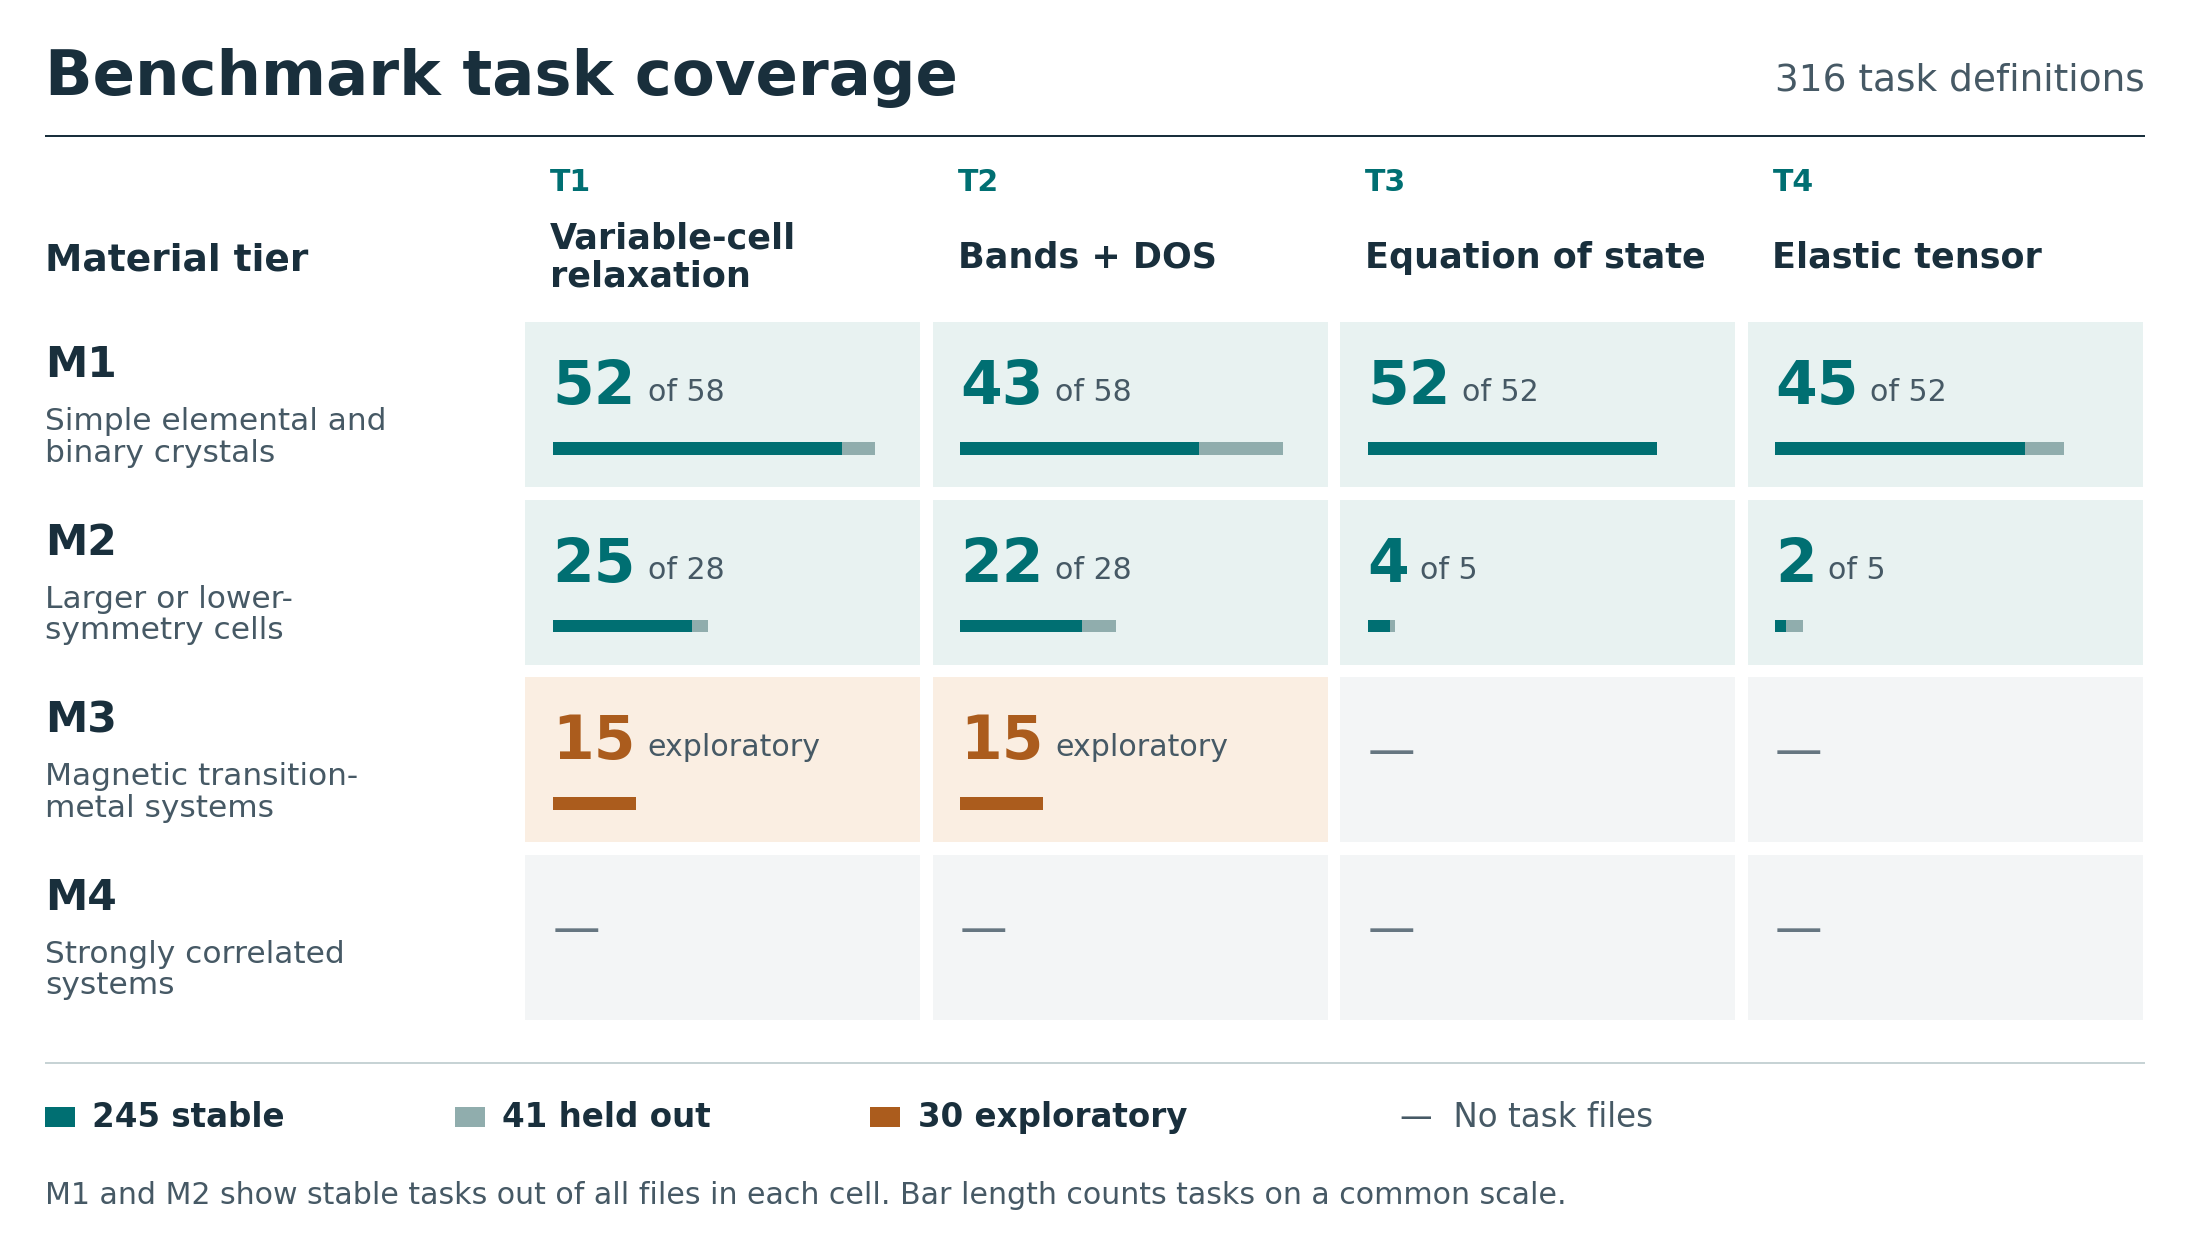
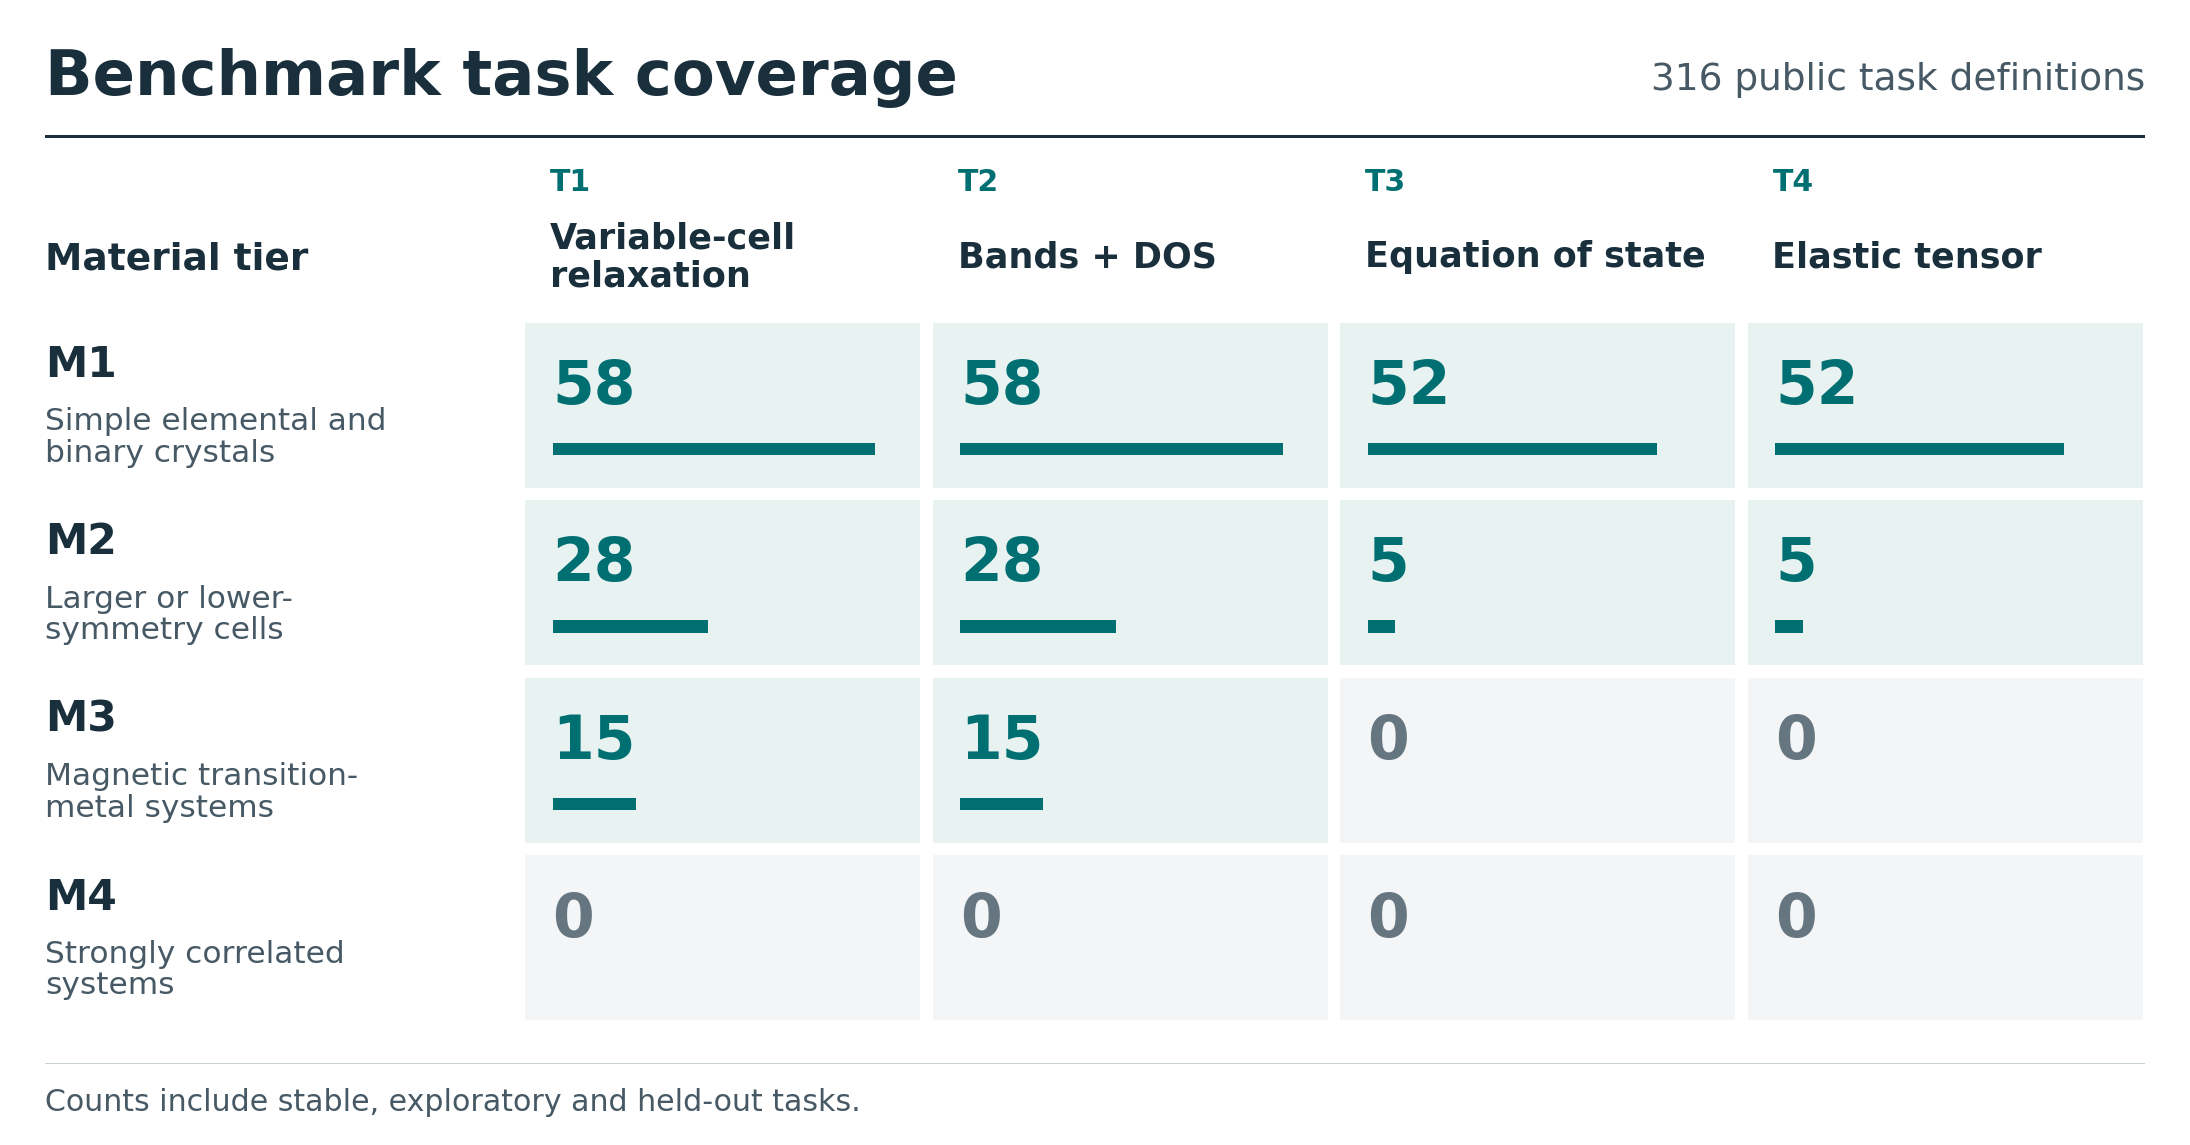
Show one public task count per benchmark cell

diff --git a/bench/figures/gen_fig_task_coverage.py b/bench/figures/gen_fig_task_coverage.py
@@ -1,7 +1,7 @@
 """Regenerate the README coverage figure from the public task manifest."""
 
 import csv
-from collections import Counter, defaultdict
+from collections import Counter
 from pathlib import Path
 
 import matplotlib
@@ -23,18 +23,14 @@ WORKFLOWS = [
     "Elastic tensor",
 ]
 INK, MUTED = "#192F3C", "#465965"
-STABLE, HELD_OUT, EXPLORATORY = "#006F72", "#90ADAD", "#AB5C1D"
+ACCENT = "#006F72"
 
 
 def draw(manifest, output):
-    cells = defaultdict(Counter)
-    totals = Counter()
     with manifest.open(encoding="utf-8", newline="") as source:
-        for row in csv.DictReader(source, delimiter="\t"):
-            cells[row["cell"]][row["set"]] += 1
-            totals[row["set"]] += 1
+        cells = Counter(row["cell"] for row in csv.DictReader(source, delimiter="\t"))
 
-    width, height = 876, 501
+    width, height = 876, 458
     fig = plt.figure(figsize=(width / 72, height / 72), facecolor="#FFFFFF")
     ax = fig.add_axes([0, 0, 1, 1], xlim=(0, width), ylim=(height, 0))
     ax.axis("off")
@@ -48,55 +44,29 @@ def draw(manifest, output):
 
     left, first_col, col_step, row_step = 18, 210, 163, 71
     label(left, 31, "Benchmark task coverage", 25, weight="bold")
-    label(width - left, 32, f"{sum(totals.values())} task definitions", 15,
+    label(width - left, 32, f"{sum(cells.values())} public task definitions", 15,
           MUTED, ha="right")
     box(left, 54, width - 2 * left, 1.1, INK)
     label(left, 104, "Material tier", 15, weight="bold")
     for j, name in enumerate(WORKFLOWS):
         x = first_col + j * col_step + 10
-        label(x, 73, f"T{j + 1}", 12, STABLE, "bold")
+        label(x, 73, f"T{j + 1}", 12, ACCENT, "bold")
         label(x, 103, name, 14, weight="bold", linespacing=1.12)
 
-    max_count = max(sum(group.values()) for group in cells.values())
-    bar_unit = (col_step - 34) / max_count
+    bar_unit = (col_step - 34) / max(cells.values(), default=1)
     for i, name in enumerate(TIERS):
         y = 129 + i * row_step
         label(left, y + 17, f"M{i + 1}", 17, weight="bold")
         label(left, y + 46, name, 12.5, MUTED, linespacing=1.1)
         for j in range(len(WORKFLOWS)):
             x = first_col + j * col_step
-            counts = cells[f"M{i + 1}_T{j + 1}"]
-            total = sum(counts.values())
-            stable, exploratory = counts["stable"], counts["exploratory"]
-            if exploratory and exploratory != total:
-                raise ValueError("Mixed exploratory and stable/held-out cells need separate count labels")
-            fill = "#E8F2F1" if total else "#F3F5F6"
-            if exploratory:
-                fill = "#FAEEE2"
-            box(x, y, col_step - 5, row_step - 5, fill)
-            if not total:
-                label(x + 11, y + 30, "—", 19, "#667681")
-                continue
-            value = exploratory or stable
-            color = EXPLORATORY if exploratory else STABLE
-            label(x + 11, y + 26, str(value), 24, color, "bold")
-            detail = "exploratory" if exploratory else f"of {total}"
-            label(x + 15 + 17 * len(str(value)), y + 28, detail, 12, MUTED)
-            bar_x, bar_y = x + 11, y + 48
-            box(bar_x, bar_y, value * bar_unit, 5, color)
-            if counts["held_out"]:
-                box(bar_x + value * bar_unit, bar_y, counts["held_out"] * bar_unit, 5, HELD_OUT)
+            count = cells[f"M{i + 1}_T{j + 1}"]
+            box(x, y, col_step - 5, row_step - 5, "#E8F2F1" if count else "#F3F5F6")
+            label(x + 11, y + 26, str(count), 24, ACCENT if count else "#667681", "bold")
+            box(x + 11, y + 48, count * bar_unit, 5, ACCENT)
 
     box(left, 425, width - 2 * left, 0.7, "#C7D3D5")
-    for x, key, name, color in [
-        (left, "stable", "stable", STABLE), (182, "held_out", "held out", HELD_OUT),
-        (348, "exploratory", "exploratory", EXPLORATORY),
-    ]:
-        box(x, 443, 12, 8, color)
-        label(x + 19, 447, f"{totals[key]} {name}", 13, weight="bold")
-    label(560, 447, "—  No task files", 13, MUTED)
-    label(left, 478, "M1 and M2 show stable tasks out of all files in each cell. Bar length counts tasks on a common scale.",
-          12, MUTED)
+    label(left, 441, "Counts include stable, exploratory and held-out tasks.", 12, MUTED)
     fig.savefig(output, dpi=180, metadata={"Software": "Matplotlib"})
     plt.close(fig)
 

diff --git a/README.md b/README.md
@@ -19,14 +19,14 @@ to M1/T2 keeps the material pool fixed and changes the target from a relaxed
 structure to electronic properties. The two labels do not imply a single
 numerical difficulty score.
 
-![Benchmark coverage across four material tiers and four workflows. M1 and M2 contain 245 stable tasks and 41 held-out tasks. M3 has 15 exploratory tasks each for relaxation and bands + DOS. M4 has no public tasks.](bench/figures/task_coverage.png)
+![Public task counts for T1–T4 by material tier. M1 has 58, 58, 52 and 52. M2 has 28, 28, 5 and 5. M3 has 15, 15, 0 and 0. M4 has no public tasks.](bench/figures/task_coverage.png)
 
 <details>
 <summary>Browse task files by matrix cell</summary>
 
-- **M1** · [T1 · 52 of 58 stable](bench/questions/M1_T1/) · [T2 · 43 of 58](bench/questions/M1_T2/) · [T3 · 52 of 52](bench/questions/M1_T3/) · [T4 · 45 of 52](bench/questions/M1_T4/)
-- **M2** · [T1 · 25 of 28 stable](bench/questions/M2_T1/) · [T2 · 22 of 28](bench/questions/M2_T2/) · [T3 · 4 of 5](bench/questions/M2_T3/) · [T4 · 2 of 5](bench/questions/M2_T4/)
-- **M3** · [T1 · 15 exploratory](bench/questions/M3_T1/) · [T2 · 15 exploratory](bench/questions/M3_T2/)
+- **M1** · [T1 · 58](bench/questions/M1_T1/) · [T2 · 58](bench/questions/M1_T2/) · [T3 · 52](bench/questions/M1_T3/) · [T4 · 52](bench/questions/M1_T4/)
+- **M2** · [T1 · 28](bench/questions/M2_T1/) · [T2 · 28](bench/questions/M2_T2/) · [T3 · 5](bench/questions/M2_T3/) · [T4 · 5](bench/questions/M2_T4/)
+- **M3** · [T1 · 15](bench/questions/M3_T1/) · [T2 · 15](bench/questions/M3_T2/)
 
 </details>
 
